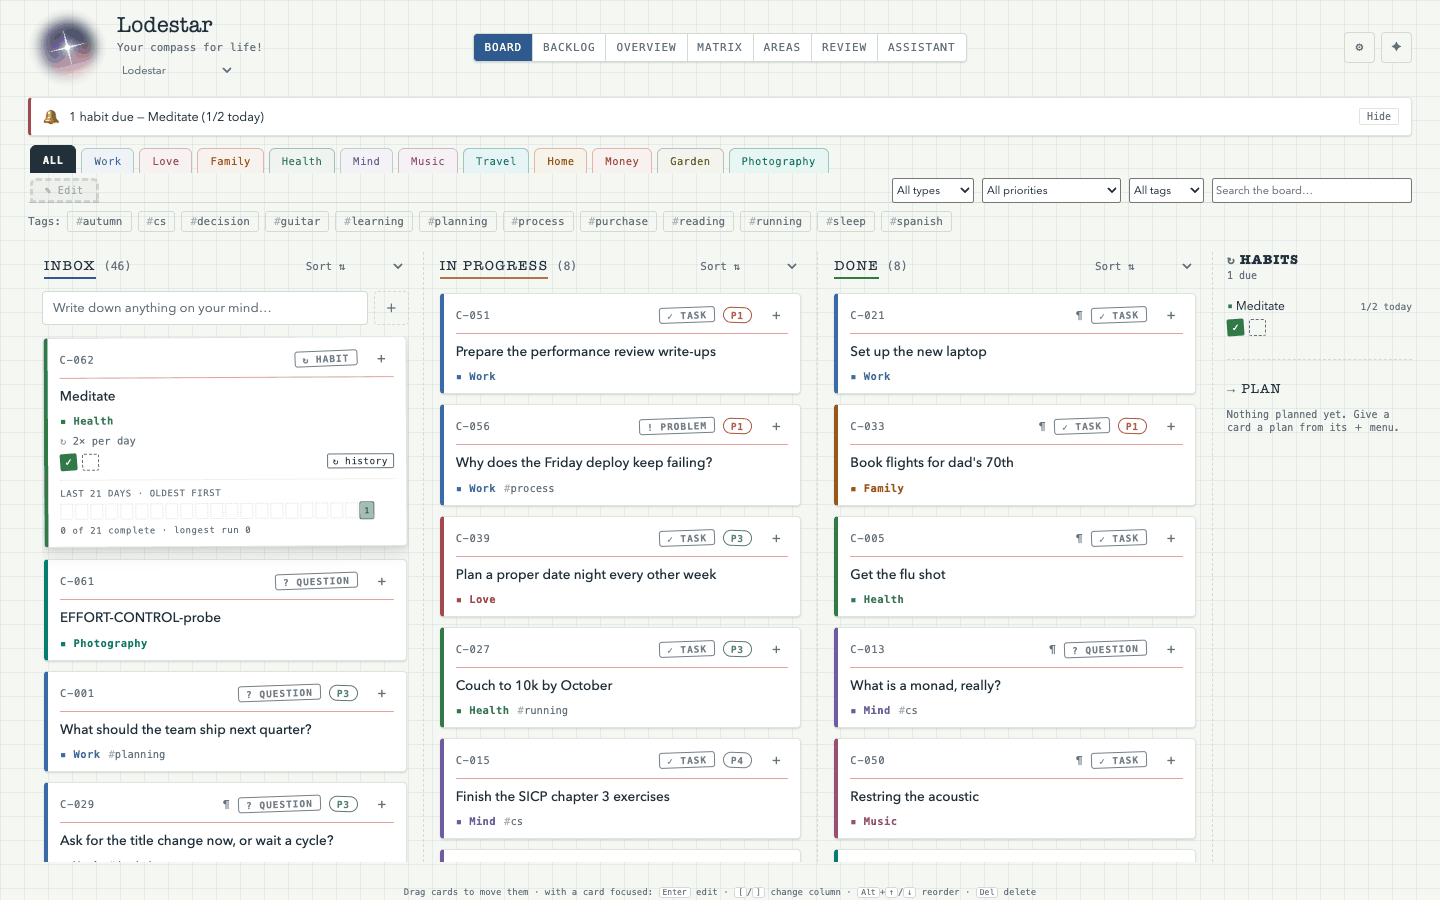
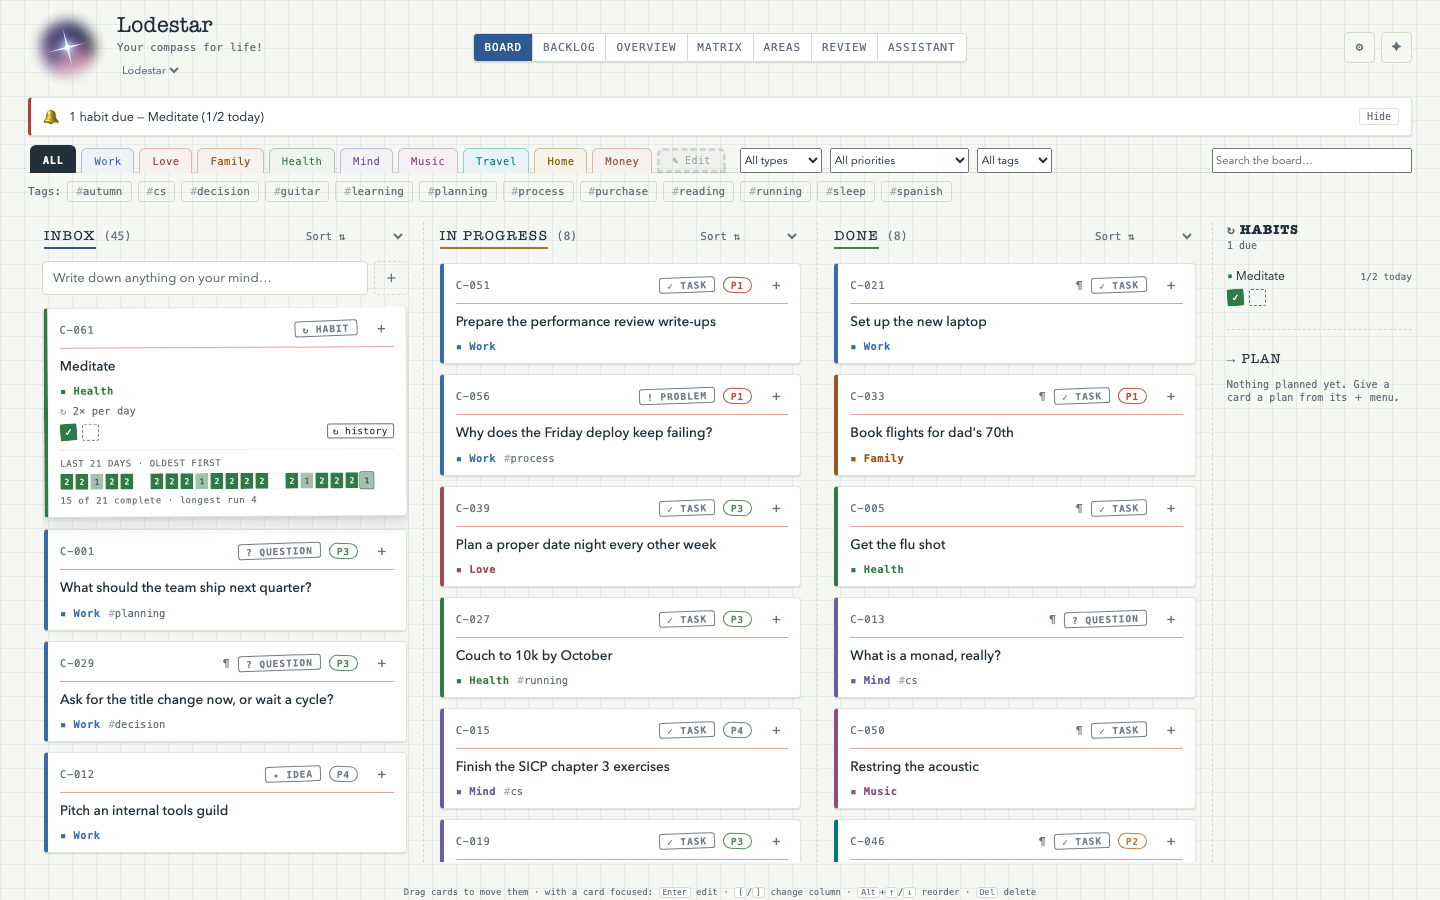
docs: recapture the two shots that had test probes in frame
The board shot carried a card called EFFORT-CONTROL-probe and seven of the
History log's nine rows said "Menu probe card", so both read as scaffolding
rather than as the product. Recaptured from a scripted session on a throwaway
board: a habit with a populated 21-day tape, and a log of nine ordinary actions
with the Deleted cards section and its Delete permanently button still in
frame. Neither is quantised — that is what the recapture found, since the old
board shot's palette had banded the logo's glow in a patch nobody had looked at.

Changed region(s): [[0.0312, 0.1556, 0.9688, 0.9644], [0.8438, 0.4044, 0.9688, 0.4667], [0.8438, 0.2489, 0.9062, 0.3733]]

diff --git a/docs/img/README.md b/docs/img/README.md
@@ -1,17 +1,22 @@
 # Release gallery manifest
 
 The nine images and one animation beside this file are the curated release
-gallery. Eight of the images are real, unretouched Playwright screenshots lifted
+gallery. Six of the images are real, unretouched Playwright screenshots lifted
 from `tests/artifacts/`, which the end-to-end suite writes while driving the app
-against a throwaway SQLite database in a temp directory. `assistant.png` and
-`approval-gate.gif` were captured separately, against a live brain on a real
-model, because no artifact of the Assistant existed that told the truth about it
-(see *The live capture* below). The card text in all of them comes from exactly
-two sources — the six seed cards in `js/core/cards.js` and the 60-card demo
-board in the tracked, already-public `sample-overview.json` — so no image carries a real person's name, a real card,
-a real conversation, a key, or a path naming anyone's home directory. Nothing
-was edited pixel-by-pixel; the only processing was lossless-to-the-eye
-recompression (see *Optimisation* below).
+against a throwaway SQLite database in a temp directory. The other four were
+captured on purpose, by two scripted sessions against a throwaway board of their
+own: `assistant.png` and `approval-gate.gif`, because no artifact of the
+Assistant existed that told the truth about it (*The live capture* below), and
+`board-habits.png` and `history.png`, because the artifacts of those two carried
+test-probe cards in frame (*The recapture* below). The card text in all of them
+comes from exactly three sources — the six seed cards in `js/core/cards.js`, the
+60-card demo board in the tracked, already-public `sample-overview.json`, and, in
+the two recaptured shots, three plainly synthetic titles typed into the running
+app (*Meditate*, *Book the winter tyres swap*, and *Sort out grandpa's photo
+archive* renamed to *Scan* it). So no image carries a real person's name, a real
+card, a real conversation, a key, or a path naming anyone's home directory. Nothing was
+edited pixel-by-pixel; the only processing was lossless-to-the-eye recompression
+(see *Optimisation* below).
 
 Paths are stable. Reference them from the README as `docs/img/<file>` and treat
 the filenames as API — rename nothing, add instead.
@@ -21,11 +26,11 @@ the filenames as API — rename nothing, add instead.
 | File | Alt text | Caption (≤ 90 chars) | Supports the claim |
 | --- | --- | --- | --- |
 | **`hero.png`** ★ hero | Lodestar's Board view: three columns — Inbox, In Progress, Done — holding six cards, each with a ledger number, a neutral type stamp, and a coloured life-area label, above a rail of nine life-area tabs. | The board: every open thought in one ledger, stamped by type and coloured by life area. | The product at a glance — cards have a *type* and a *category*, and flow Inbox → In Progress → Done |
-| `board-habits.png` | The same board grown to 62 cards across nine life areas, with a "1 habit due" banner at the top, a Habits rail on the right, and an open habit card showing a 21-day completion tape. | Habits live on the board: a due banner, a rail, and a 21-day tape per habit. | Habit cards track repetitions per period and keep a capped history; the rail is the reminder |
+| `board-habits.png` | The same board grown to 61 cards across nine life areas, with a "1 habit due — Meditate (1/2 today)" banner at the top, a Habits rail on the right, and a habit card showing its punch strip and a 21-day completion tape reading "15 of 21 complete · longest run 4". | Habits live on the board: a due banner, a rail, and a 21-day tape per habit. | Habit cards track repetitions per period and keep a capped history; the rail is the reminder |
 | `areas.png` | The Areas view: a nine-spoke radar wheel labelled Work, Love, Family, Health, Mind, Music, Travel, Home, Money, with per-area tiles below showing open counts, how long each has been carried, and a sparkline. | Nine life areas side by side — a lopsided wheel means a starved corner. | Lodestar covers a whole life, not one project; the wheel is the "give direction" pillar |
 | `matrix.png` | The Matrix view: four Eisenhower quadrants — Answer now, Schedule, Delegate, Drop — each holding a category-coloured dot, with a per-area colour legend above. | The Eisenhower matrix, importance against urgency, placed by the card's own fields. | Cards carry importance and urgency, and four framings (Eisenhower, Leverage, Serenity, Follow-through) read them |
 | `review.png` | The Review view scrolled to Today's Resurfacing: three long-untouched cards, each offering "Still matters", "Open" and "To Trash", above a "Stamp the review done" button showing a REVIEWED stamp. | Weekly review: three old thoughts re-met on purpose — keep, open, or let go. | Drives follow-through and never loses a thought; resurfacing is deliberate, not a notification |
-| `history.png` | The Board History dialog listing timestamped changes newest first with a Restore button on each, one row marked CURRENT, and a Deleted cards section explaining that "Delete permanently" is the only thing that truly erases a card. | Every change is logged and restorable; only "Delete permanently" really erases. | The durability promise — a card is destroyed only via Trash → Delete permanently, and undo is a history, not one step |
+| `history.png` | The Board History dialog listing seven timestamped changes newest first — a delete, a category set, a card added, a move to Done, a deadline, a title edit, a type change — each with a Restore button, the newest marked CURRENT, above a Deleted cards section holding the deleted card with Restore and "Delete permanently" beside it. | Every change is logged and restorable; only "Delete permanently" really erases. | The durability promise — a card is destroyed only via Trash → Delete permanently, and undo is a history, not one step |
 | `categories.png` | The Categories dialog listing ten life areas, each in its own colour with its card count and a Remove button, plus a new-category field and a row of colour swatches. | Life areas are yours to name and colour — removing one never deletes its cards. | Colour always means category; the registry is per board and editable |
 | `assistant.png` | The Assistant view: a question asking for a new task card, the assistant's reply saying it has proposed one, and above it a dashed panel headed "PROPOSED — 1 CARD AWAITING YOUR APPROVAL" holding the card "Book a dentist appointment" with Reject and Approve buttons. | The assistant proposes; nothing reaches the board until you approve it. | The write-protection gate — `MUTATING_TOOLS` is empty and the agent has no board-write path at all |
 | `approval-gate.gif` | A 15-second animation: a question is typed into the Assistant, the reply streams in, a proposed card appears awaiting approval, Approve is pressed, and the card appears on the Board as C-061 "Book a dentist appointment" in Health. | Proposal to approval to card, in fifteen seconds — the gate in motion. | The same gate, shown end to end: the agent cannot write, and the user's click is what does |
@@ -48,32 +53,49 @@ only what the image shows.
 
 ## Optimisation
 
-All nine are PNG. The eight lifted from `tests/artifacts/` have a 1440px long
-edge — already inside the ~1600px cap, so nothing was resized; `assistant.png`
-was captured at 2x and halved to 1600px to sit beside them. The nine total
-**915 KB**, and the GIF adds 258 KB.
+All nine are PNG. Eight have a 1440px long edge — the six lifted from
+`tests/artifacts/` and the two recaptured, which are shot at `scale="css"` into a
+1440x900 viewport and so need no resizing at all; `assistant.png` was captured at
+2x and halved to 1600px to sit beside them. The nine total **1,108 KB**, and the
+GIF adds 258 KB.
 
-Six of the eight lifted images were recompressed with a 256-colour adaptive palette (Pillow,
-`MEDIANCUT`, no dither), which is visually lossless on these flat, quad-paper UI
+Five of them are recompressed with a 256-colour adaptive palette (Pillow,
+`MEDIANCUT`, no dither), which is visually lossless on flat, quad-paper UI
 screenshots — mean per-pixel error ≈ 0.1/255 — for a 62 % saving:
 
-| File | Before | After |
+| File | Shipped | Treatment |
 | --- | --- | --- |
-| `hero.png` | 130 KB | 47 KB |
-| `board-habits.png` | 198 KB | 73 KB |
-| `areas.png` | 145 KB | 54 KB |
-| `matrix.png` | 104 KB | 39 KB |
-| `review.png` | 129 KB | 48 KB |
-| `mobile.png` | 68 KB | 25 KB |
-| `history.png` | 224 KB | 218 KB (full colour) |
-| `categories.png` | 210 KB | 202 KB (full colour) |
+| `hero.png` | 47 KB | 256-colour palette (from 130 KB) |
+| `areas.png` | 54 KB | 256-colour palette (from 145 KB) |
+| `matrix.png` | 39 KB | 256-colour palette (from 104 KB) |
+| `review.png` | 48 KB | 256-colour palette (from 129 KB) |
+| `mobile.png` | 25 KB | 256-colour palette (from 68 KB) |
+| `board-habits.png` | 210 KB | full colour, plain re-pack |
+| `history.png` | 275 KB | full colour, plain re-pack |
+| `categories.png` | 202 KB | full colour, plain re-pack |
+| `assistant.png` | 204 KB | halved from 2x, full colour |
 
-`history.png` and `categories.png` are deliberately **not** quantised. Both are
-modal dialogs over a blurred backdrop, and the blur's gradient consumes the
-palette: the colour swatches in `categories.png` — the one image whose subject
-*is* colour — collapsed into browns, and the logo's gradient went grey. They
-keep full RGB and a plain zlib re-pack instead. Any future re-optimisation must
-re-check those two by eye rather than by file size.
+Four ship in full colour. `assistant.png` simply was never quantised — it was
+already the halved 2x capture. The other three are deliberate refusals, and the
+reason is one artefact in three places. `history.png` and `categories.png` are
+modal dialogs over a blurred
+backdrop, and the blur's gradient consumes the palette: the colour swatches in
+`categories.png` — the one image whose subject *is* colour — collapsed into
+browns, and the logo's gradient went grey. `board-habits.png` **was** quantised
+until 2026-09-02, at 73 KB, and the recapture is what showed what that had cost:
+the logo's purple glow bands into visible contour rings and the banner's bell
+emoji loses its yellow. Both were true of the shipped image too; nobody had
+looked at that 60px patch.
+
+So the mean error is a poor witness here. 0.1/255 averaged over 1.3 M
+mostly-flat pixels says nothing about the one small region where the whole error
+lives, which is why the check is now a magnified side-by-side crop of the logo,
+the bell and the coloured area tabs, plain against quantised. Full colour costs
+`board-habits.png` 137 KB and buys back the logo, and it is the reason
+`history.png` ships at 275 KB rather than the 218 KB its predecessor managed —
+that shot had two cards behind the modal and this one has 61, and a fuller board
+is the more honest backdrop. Any future re-optimisation must re-check these four
+**by eye** rather than by file size.
 
 No image tool beyond `sips` and Pillow was used, and no dependency was added.
 
@@ -108,13 +130,49 @@ Two things the recording found, both since fixed and both visible in these
 images only in their corrected form: a tool's own model call being streamed into
 the transcript, and the tool count being printed twice in one row.
 
+## The recapture
+
+`board-habits.png` and `history.png` come from one scripted session on
+2026-09-02, not from the test suite. The artifacts they replace were accurate
+but read as scaffolding: the habits shot carried a card called
+`EFFORT-CONTROL-probe` near the top of the Inbox, and seven of the nine visible
+rows in the History log said *"Menu probe card"*. Rejected on how they read, not
+on privacy — but a release gallery whose evidence for the durability promise is a
+log of a test poking at a menu is asking to be disbelieved.
+
+What was recorded, so it can be recorded again:
+
+- A throwaway board on a temp SQLite database and a brain on `BRAIN_LLM=fake`.
+  Neither shot needs a model; the brain is there so nothing on screen is an error
+  banner. `LODESTAR_BACKUP_ON_WRITE=0`, and `databases/real/` untouched.
+- The board filled from the same tracked `sample-overview.json`, substituted, so
+  the privacy position is unchanged. The six seed cards that substitution
+  soft-deletes are then purged through `DELETE /api/cards/:id` — otherwise they
+  would be the Deleted cards section of the History shot, which is the one part
+  of that image the caption is about.
+- One habit created through the card dialog, exactly as a person makes one:
+  quick-add *"Meditate"*, stamp it Habit, daily, 2 per day, Health.
+- Both frames shot at `scale="css"` into a 1440x900 viewport — a 1x render at the
+  gallery's own size, no resampling anywhere.
+- The History log is nine real actions taken through the UI in order: a move to
+  In Progress, a category set to Mind, a type set to task, a title edited in the
+  card dialog, a deadline set to today, a move to Done, a card added, its
+  category set to Home, and a delete. The board's own log then reads like
+  somebody's afternoon, because it is one.
+
+One thing in these two images was **not** typed into the running app, and it is
+the only such thing in the gallery: the twenty days of completions behind
+`board-habits.png`'s 21-day tape were written into `habitHistory` through
+`PUT /api/state`, then adopted back by reloading the browser. A habit created a
+minute before the shutter has an empty tape, and an empty tape is a picture of
+the widget rather than of the feature. The dates are synthetic, about nobody, and
+carry no text.
+
 ## Still imperfect
 
-- **`board-habits.png` contains a test-probe card**, C-061 "EFFORT-CONTROL-probe"
-  near the top of the Inbox. Synthetic, not private, and the reason that shot is
-  not the hero — but a recapture against a live board would lose it.
-- **`history.png`'s log is mostly test-probe rows** — seven of nine visible
-  entries are "Menu probe card". It demonstrates the durability promise
-  correctly, including the "Delete permanently" row, but it reads as scaffolding.
-  Recapturing it needs a scripted session on a live board rather than a lift
-  from `tests/artifacts/`.
+- **`history.png` is the gallery's largest file, 275 KB.** It cannot be
+  quantised (see *Optimisation*), and its backdrop is a full 61-card board
+  rather than the two-card one its predecessor happened to have. Both are
+  deliberate; the size is the price.
+- **The 21-day tape's older completions were written, not lived** — see the
+  paragraph above. Everything else in both images was done through the UI.

diff --git a/README.md b/README.md
@@ -37,17 +37,18 @@ tabs.](docs/img/hero.png)
 
 ## A look at it
 
-Every shot below is a real screenshot from the end-to-end test suite or a live
-recording — none is a mockup. The card text in them comes from the six seed
-cards the app ships with and from the demo board in `sample-overview.json`, both
-already in this repository, so none of it is anyone's real board. Details of
-each image, and what it is evidence for, are in
-[`docs/img/README.md`](docs/img/README.md).
+Every shot below is a real screenshot — from the end-to-end test suite, or from
+a scripted session driving the app for the purpose. None is a mockup and none is
+retouched. The card text in them comes from the six seed cards the app ships
+with, the demo board in `sample-overview.json` (both already in this
+repository), and two titles typed into a throwaway board while recording, so
+none of it is anyone's real board. Details of each image, how it was made, and
+what it is evidence for are in [`docs/img/README.md`](docs/img/README.md).
 
 | | |
 | --- | --- |
 | ![The Areas view: a nine-spoke radar wheel labelled Work, Love, Family, Health, Mind, Music, Travel, Home, Money, with per-area tiles below showing open counts, how long each has been carried, and a sparkline.](docs/img/areas.png) **Areas** — nine life areas side by side. A lopsided wheel means a starved corner. | ![The Matrix view: four Eisenhower quadrants — Answer now, Schedule, Delegate, Drop — each holding a category-coloured dot, with a per-area colour legend above.](docs/img/matrix.png) **Matrix** — importance against urgency, placed by the card's own fields. |
-| ![The same board grown to 62 cards across nine life areas, with a "1 habit due" banner at the top, a Habits rail on the right, and an open habit card showing a 21-day completion tape.](docs/img/board-habits.png) **Habits** — a due banner, a rail, and a 21-day tape per habit. | ![The Review view scrolled to Today's Resurfacing: three long-untouched cards, each offering "Still matters", "Open" and "To Trash", above a "Stamp the review done" button.](docs/img/review.png) **Review** — three old thoughts re-met on purpose: keep, open, or let go. |
+| ![The same board grown to 61 cards across nine life areas, with a "1 habit due — Meditate (1/2 today)" banner at the top, a Habits rail on the right, and a habit card showing its punch strip and a 21-day completion tape reading "15 of 21 complete".](docs/img/board-habits.png) **Habits** — a due banner, a rail, and a 21-day tape per habit. | ![The Review view scrolled to Today's Resurfacing: three long-untouched cards, each offering "Still matters", "Open" and "To Trash", above a "Stamp the review done" button.](docs/img/review.png) **Review** — three old thoughts re-met on purpose: keep, open, or let go. |
 | ![The Board History dialog listing timestamped changes newest first with a Restore button on each, one row marked CURRENT, and a Deleted cards section explaining that "Delete permanently" is the only thing that truly erases a card.](docs/img/history.png) **History** — every change logged and restorable; only *Delete permanently* really erases. | ![The Categories dialog listing ten life areas, each in its own colour with its card count and a Remove button, plus a new-category field and a row of colour swatches.](docs/img/categories.png) **Life areas** — yours to name and colour; removing one never deletes its cards. |
 
 ## Run it
